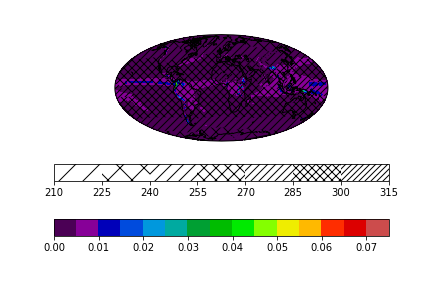
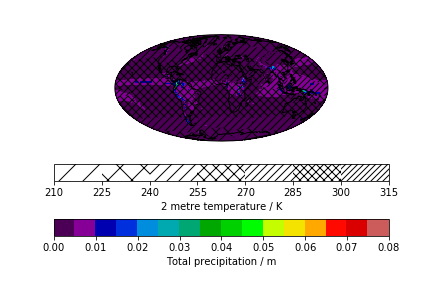
Added two more plots, a few methods and some labels.

diff --git a/Abschlussprojekt/classes.py b/Abschlussprojekt/classes.py
@@ -28,7 +28,7 @@ class Data:
                     if i == 0:
                         self.lat = msg.get('distinctLatitudes')
                         self.lon = msg.get('distinctLongitudes')
-                        self.name = msg.get('name')
+                        self.name = msg.get('name')+' / '+msg.get('units')
                         self.values = np.empty(
                                 (n, len(self.lat), len(self.lon)))
                         
@@ -47,6 +47,13 @@ class Data:
 
     def comp_mean_time(self):
         return np.mean(self.values, axis=0)
+    
+    
+    def ann_mean(self, anno):
+        time_idx = (anno - 1979) * 12 - 1
+        data = np.mean(self.values[time_idx:time_idx+12,:,:], axis=0)
+        
+        return data
 
 
     def get_time_mean(self):
@@ -73,6 +80,23 @@ class Data:
 
     def get_name(self):
         return self.name
+    
+    
+    def reduce_grid(self, inpt, lon_min, lon_max, lat_min, lat_max):
+        '''Returns the data of inpt reduced to a grid with the borders lon_min,
+        lon_max, lat_min, lat_max'''
+
+        idx_lon_min = np.argmin(np.abs(self.lon - lon_min))
+        idx_lon_max = np.argmin(np.abs(self.lon - lon_max))
+        idx_lat_min = np.argmin(np.abs(self.lat - lat_min))
+        idx_lat_max = np.argmin(np.abs(self.lat - lat_max))
+
+        data = inpt[idx_lat_max:idx_lat_min,idx_lon_min:idx_lon_max]
+        lat = self.lat[idx_lat_max:idx_lat_min]
+        lon = self.lon[idx_lon_min:idx_lon_max]
+        
+        return (data, lat, lon)
+        
 
     
 def plot_mean_global(data1, data2):
@@ -98,8 +122,10 @@ def plot_mean_global(data1, data2):
                  hatches=['/', 'x','//', 'xx', '///', 'xxx', '////', 'xxxx'],
                  transform=ctp.crs.PlateCarree())
         
-    fig.colorbar(m1, orientation='horizontal')
-    fig.colorbar(m2, orientation='horizontal')
+    cbar1 = fig.colorbar(m1, orientation='horizontal')
+    cbar1.ax.set_xlabel(name1)
+    cbar2 = fig.colorbar(m2, orientation='horizontal')
+    cbar2.ax.set_xlabel(name2)
     ax1.coastlines()
     ax1.set_global()
     plt.savefig('fig/mean_global.png')
@@ -128,11 +154,81 @@ def plot_time_series(dataobject1, dataobject2):
     ax2.set_ylabel(name2, color=color)
     ax2.tick_params(axis='y', labelcolor=color)
     
+    plt.savefig('fig/time_series.png')
+    plt.show()
+    return
+
+def plot_austria(data1, data2, anno):
+    map_border = [9, 17.5, 46, 49.5]
+    values1, lat1, lon1 = data1.reduce_grid(data1.ann_mean(anno), *map_border)
+    name1 = data1.get_name()
+    values2, lat2, lon2 = data2.reduce_grid(data2.ann_mean(anno), *map_border)
+    name2 = data2.get_name()
+    
+    fig = plt.figure()
+    ax1 = fig.add_subplot(1,1,1, projection=ctp.crs.EuroPP())
+    ax1.set_extent(map_border, crs=ctp.crs.PlateCarree())
+        
+    m1 = ax1.contourf(lon1, lat1, values1, 14, transform=ctp.crs.PlateCarree(),
+                cmap='nipy_spectral')
+    
+    m2 = ax1.contourf(lon2, lat2, values2, colors='none',
+                 hatches=['/', 'x','//', 'xx', '///', 'xxx', '////', 'xxxx'],
+                 transform=ctp.crs.PlateCarree())
+        
+    ax1.add_feature(ctp.feature.BORDERS.with_scale('10m'))
+    cbar1 = fig.colorbar(m1, orientation='horizontal')
+    cbar1.ax.set_xlabel(name1)
+    cbar2 = fig.colorbar(m2, orientation='horizontal')
+    cbar2.ax.set_xlabel(name2)
+    ax1.coastlines()
+    plt.savefig('fig/austria_'+str(anno)+'.png')
+    plt.show()
+    return
+    
+    
+def plot_anomaly(data1, data2, anno):
+    lat1, lon1 = data1.get_coord()
+    mean1 = data1.get_time_mean()
+    name1 = data1.get_name()
+    
+    mean2 = data2.get_time_mean()
+    name2 = data2.get_name()
+    if mean1.shape == mean2.shape:
+        lat2 = lat1
+        lon2 = lon1
+    else:
+        lat2, lon2 = data2.get_coord()
+        
+    values1 = data1.ann_mean(anno)
+    values2 = data2.ann_mean(anno)
+    values1 = mean1 - values1
+    values2 = mean2 - values2
+    
+    fig = plt.figure()
+    ax1 = fig.add_subplot(1,1,1, projection=ctp.crs.Mollweide())
+        
+    m1 = ax1.contourf(lon1, lat1, values1, 15, transform=ctp.crs.PlateCarree(),
+                cmap='nipy_spectral')
+    
+    m2 = ax1.contourf(lon2, lat2, values2, colors='none',
+                 hatches=['/', 'x','//', 'xx', '///', 'xxx', '////', 'xxxx'],
+                 transform=ctp.crs.PlateCarree())
+        
+    cbar1 = fig.colorbar(m1, orientation='horizontal')
+    cbar1.ax.set_xlabel(name1)
+    cbar2 = fig.colorbar(m2, orientation='horizontal')
+    cbar2.ax.set_xlabel(name2)
+    ax1.coastlines()
+    ax1.set_global()
+    plt.savefig('fig/anomaly_'+str(anno)+'.png')
     plt.show()
     return
     
 if __name__ == '__main__':
-    perc = Data('data/data.grib', 'tp')
-    temp = Data('data/data.grib', '2t')
-    plot_mean_global(perc, temp)
+    perc = Data('data/data2.grib', 'tp')
+    temp = Data('data/data2.grib', '2t')
+    #plot_mean_global(perc, temp)
     #plot_time_series(perc, temp)
+    #plot_austria(temp, perc, 1980)
+    plot_anomaly(perc, temp, 1980)
